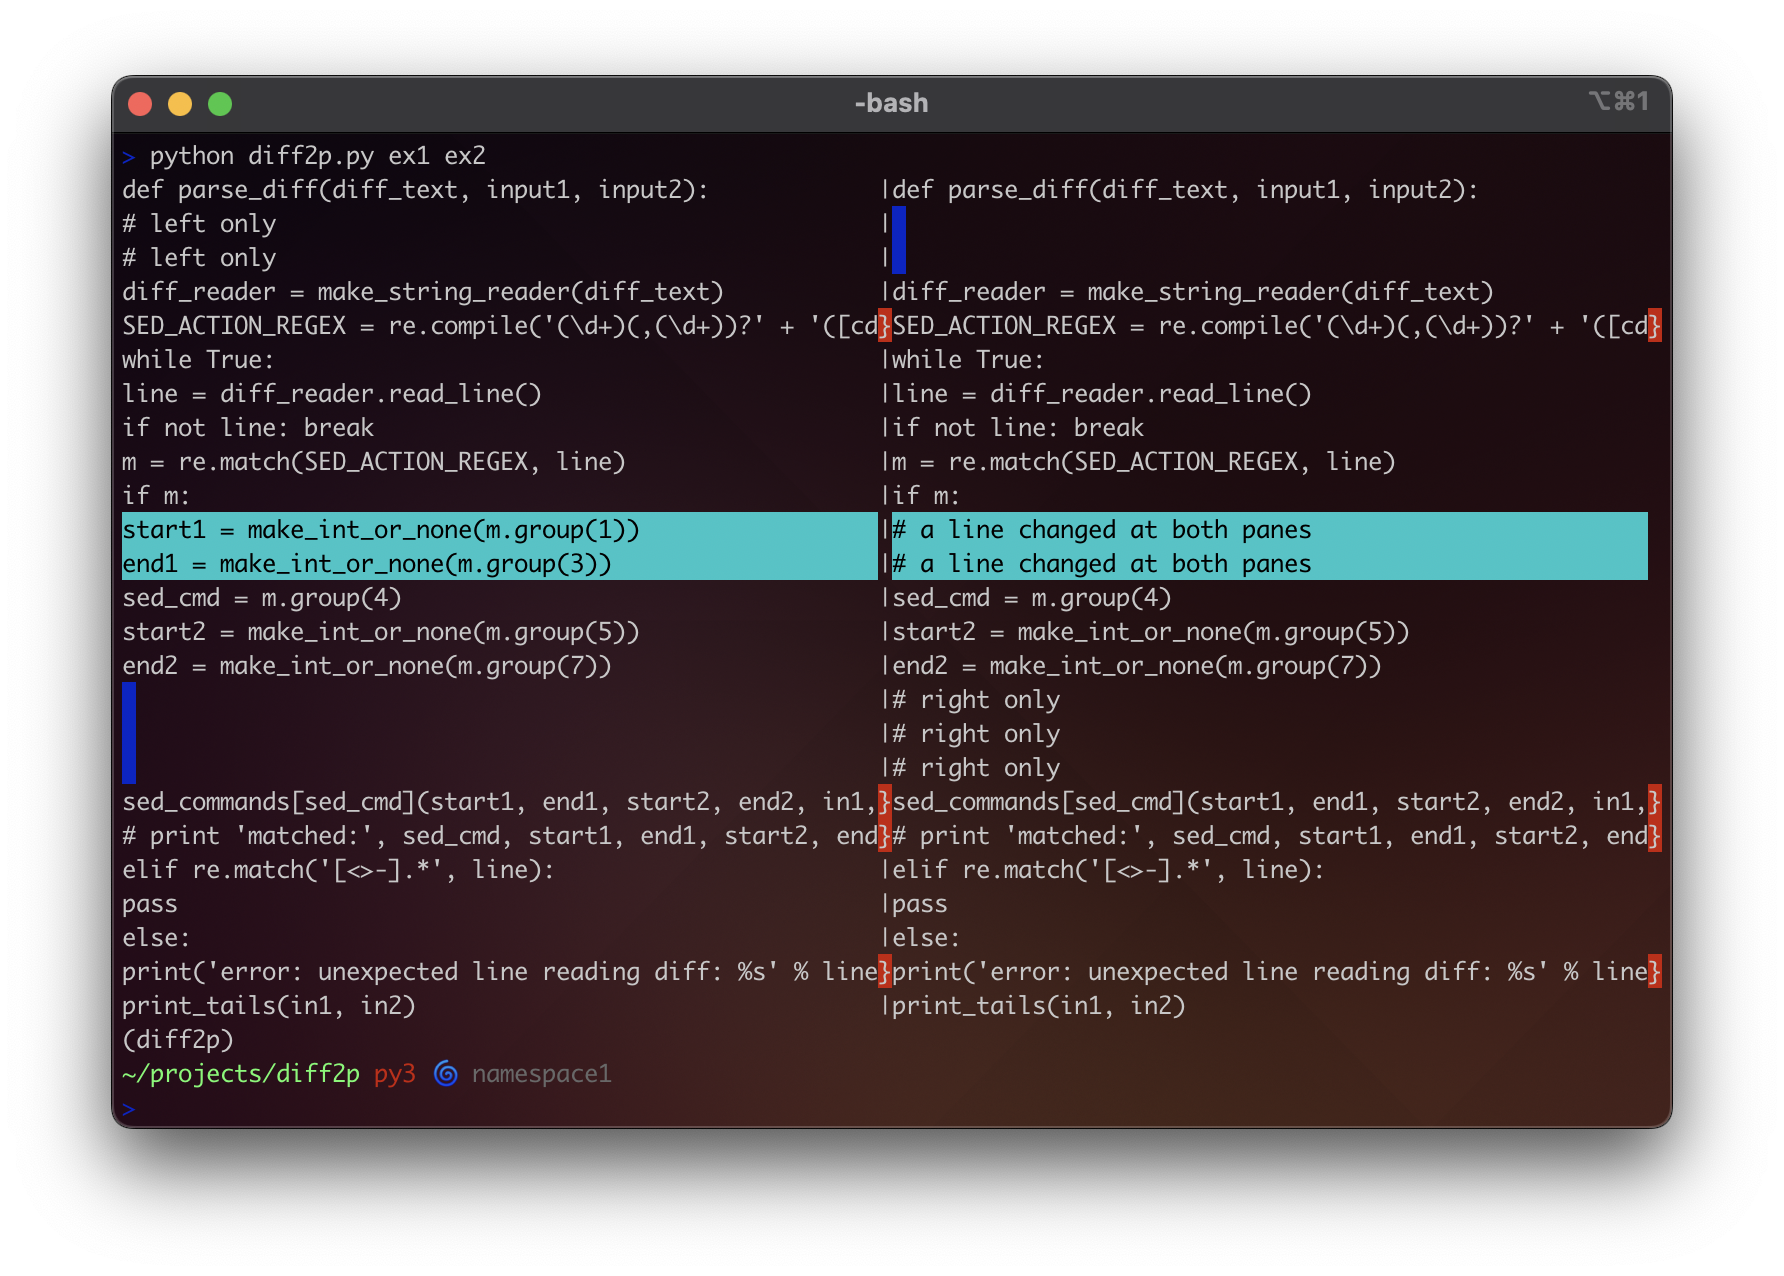
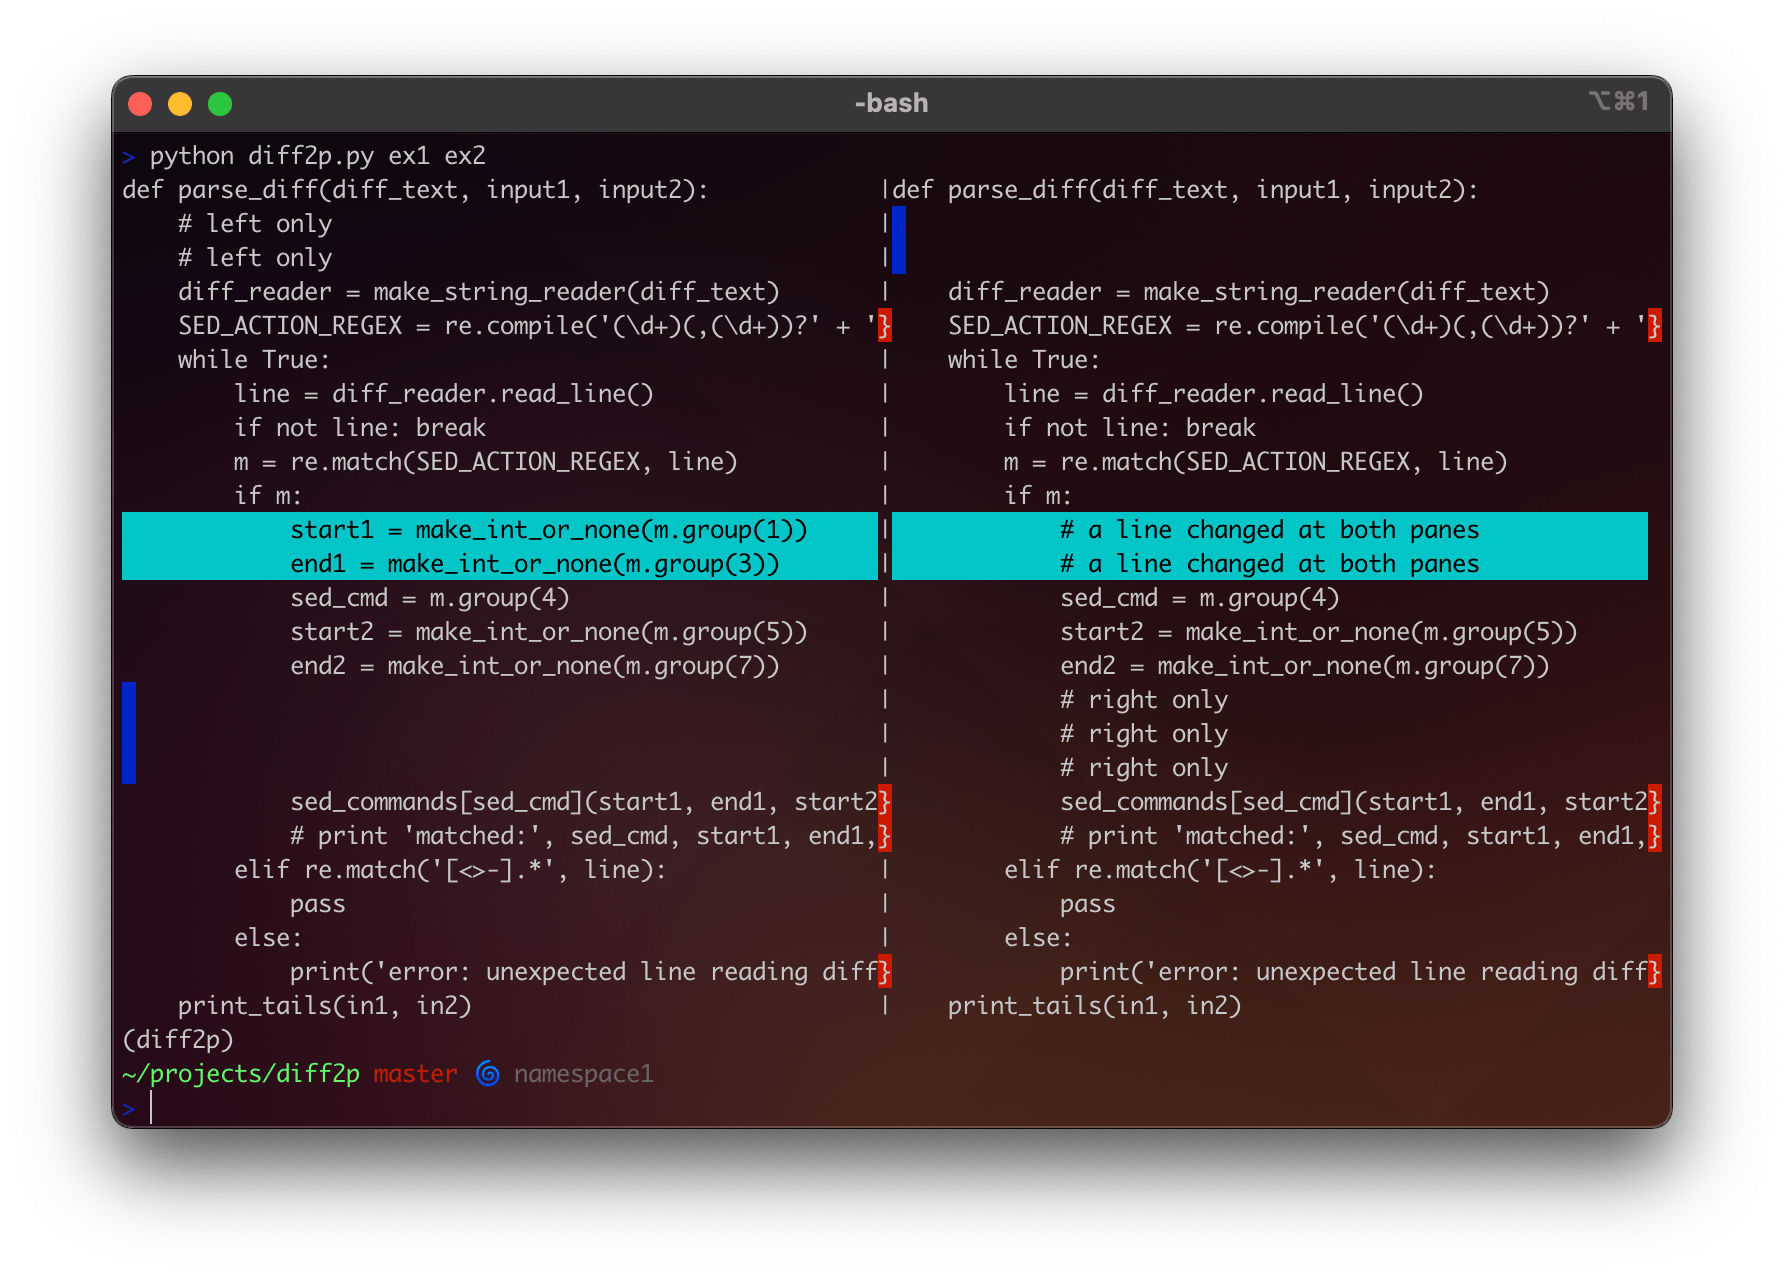
spaces fixed

diff --git a/diff2p.py b/diff2p.py
@@ -24,7 +24,7 @@ class LineReader:
         if line_no_1_based is not None:
             assert self.lines_read + 1 == line_no_1_based, 'lines_read=%s, line_no_1_based=%s' % (
                 self.lines_read, line_no_1_based)
-        line = self.f.readline().strip()
+        line = self.f.readline().strip('\r\n')
         if line is not None:
             self.lines_read += 1
         return line
